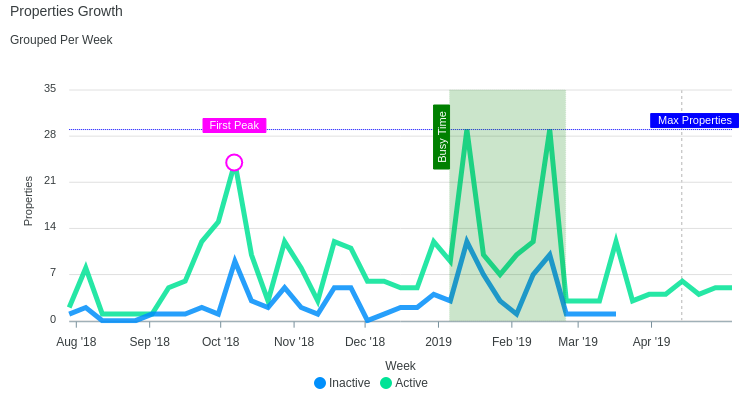
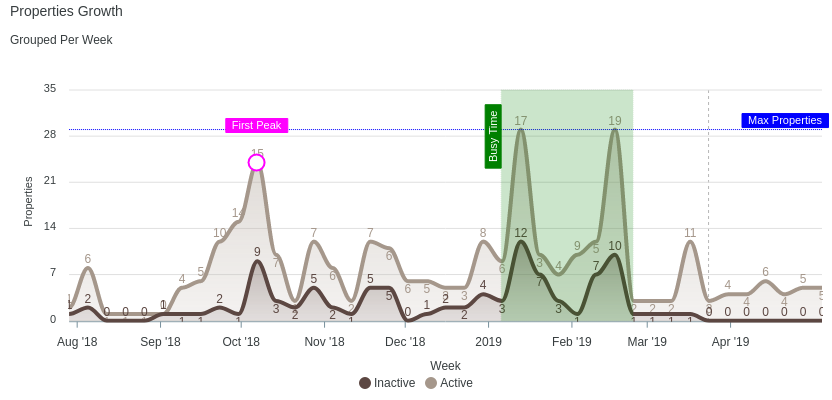
Minor readme corrections

diff --git a/README.md b/README.md
@@ -154,13 +154,13 @@ You can synchronize charts by using `syncing_chart` or `synchronized_chart` meth
 All cartesian charts can have annotations, for example:
 
 ```erb
-<%= line_chart(series, options) do %>
+<%= area_chart(series, {**options, theme: 'palette9'}) do %>
   <% x_annotation(value: ('2019-01-06'..'2019-02-24'), text: "Busy Time", color: 'green') %>
   <% y_annotation(value: 29, text: "Max Properties", color: 'blue') %>
   <% point_annotation(value: ['2018-10-07', 24], text: "First Peak", color: 'magenta') %>
 <% end %>
 ```
-![Example Line Chart with Annotations](images/chart_with_annotations.png)
+![Example Area Chart with Annotations](images/chart_with_annotations.png)
 
 
 ### Polar Charts
@@ -234,8 +234,8 @@ require("apexcharts")
 ## Objective
 - To bring out as much apexcharts.js capabilities as possible but in ruby ways.
 
-## Roadmap
-- Other charts (~~pie~~, ~~donut~~, radar, heatmap, etc.)
+## TODOs
+- Other charts (radar, heatmap, candlestick, etc.)
 - Support other ruby frameworks (sinatra, hanami, etc.)
 - Render as Vue or React elements
 
